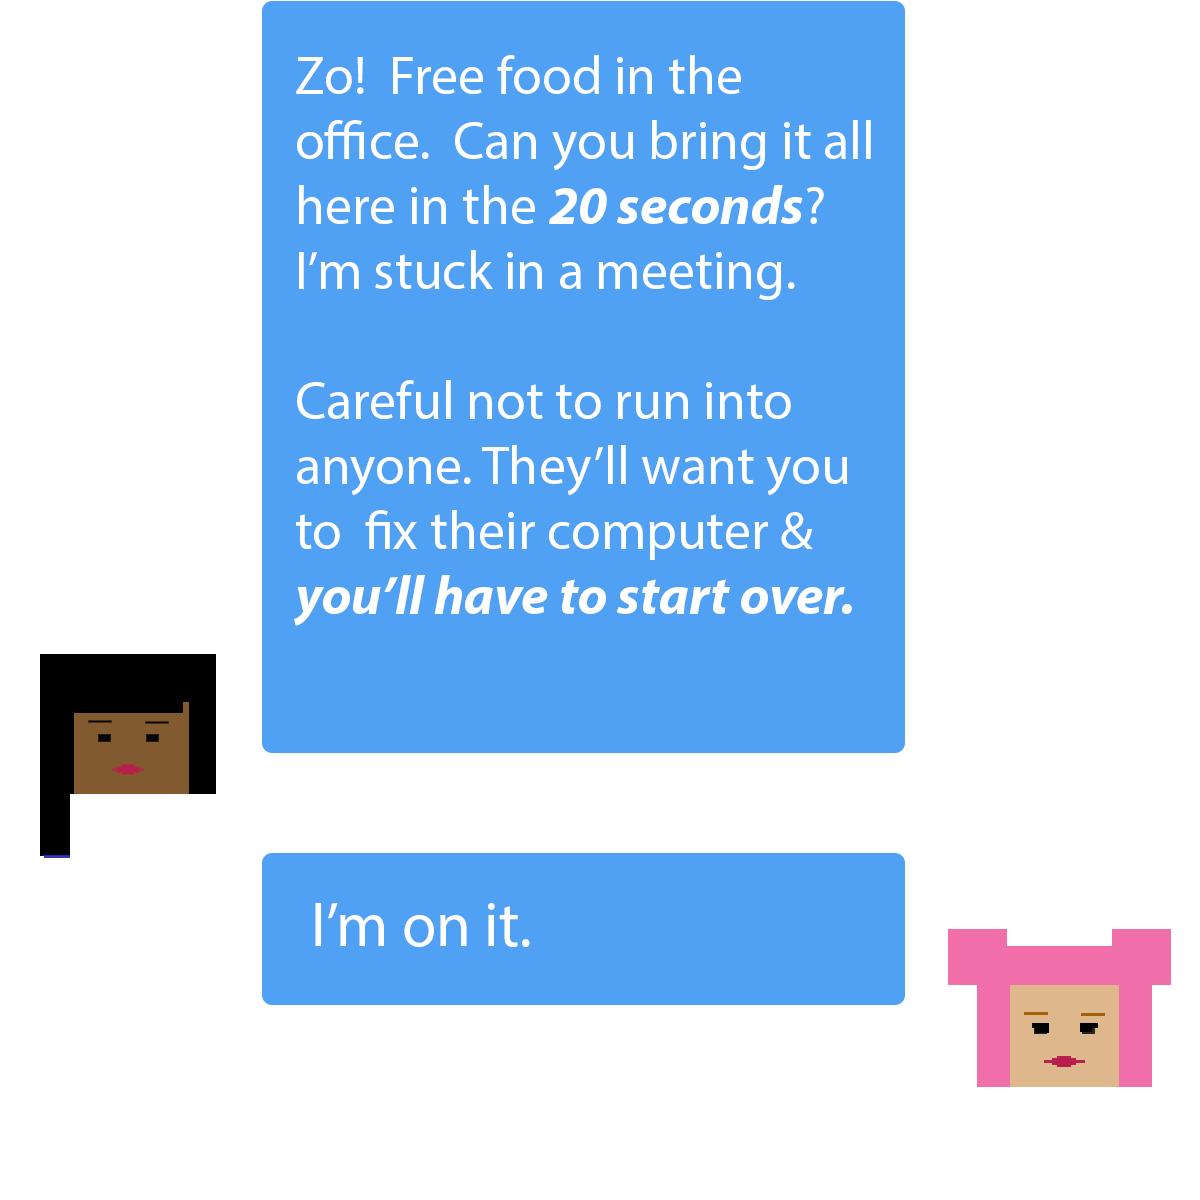
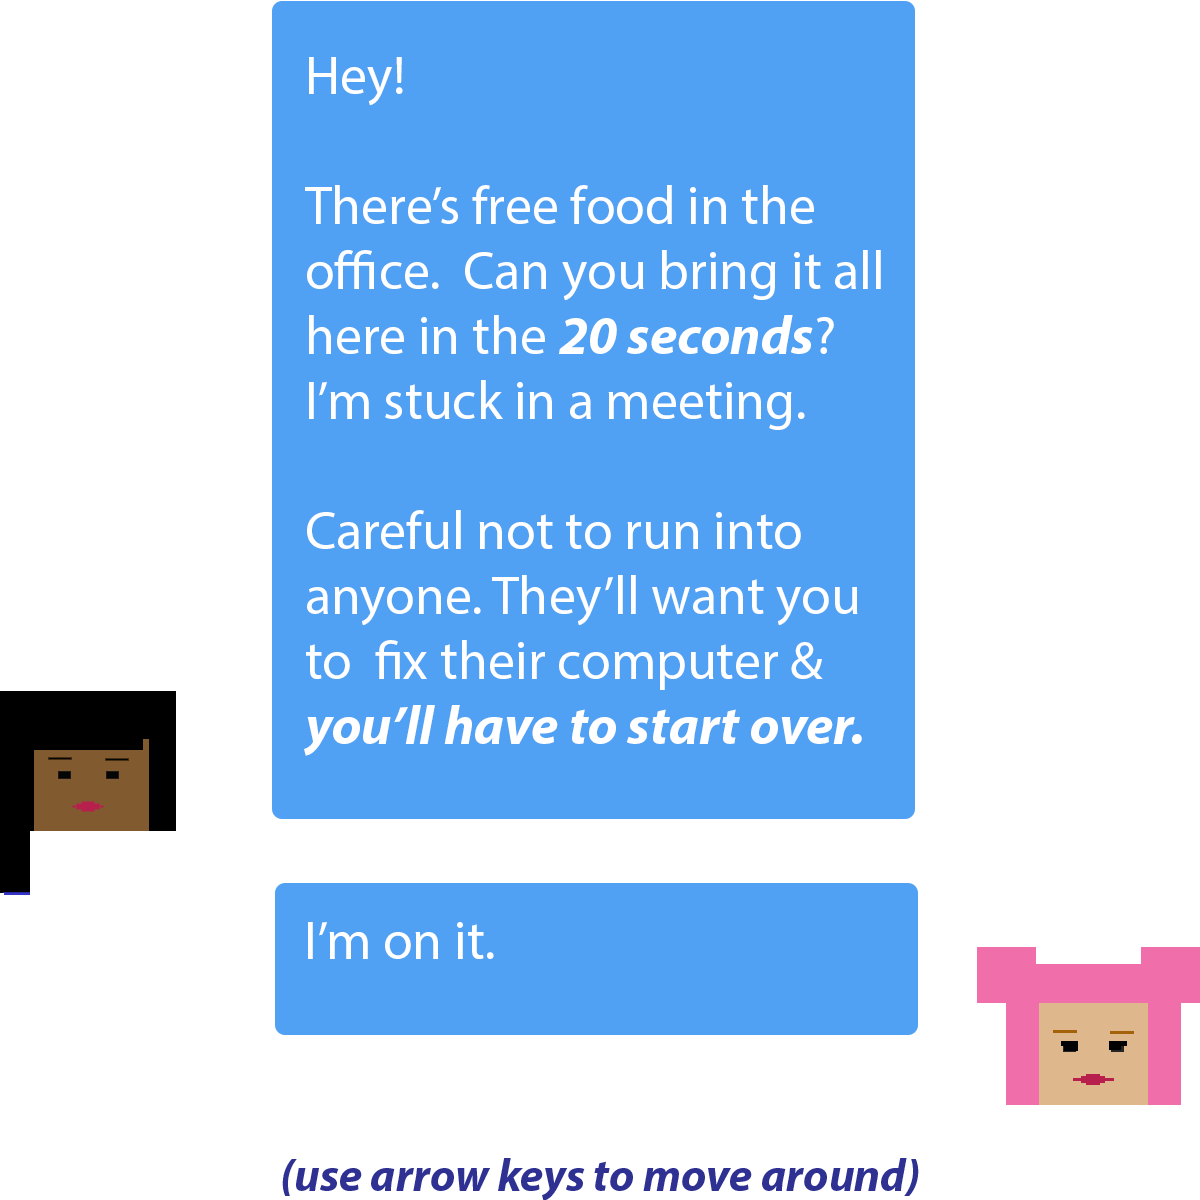
fixed welcome page text

Changed region(s): [[0.2158, 0.0, 1.0, 0.925], [0.2158, 0.9558, 0.7708, 1.0], [0.0, 0.5242, 0.185, 0.7708]]

diff --git a/index.html b/index.html
@@ -15,29 +15,7 @@
     <main>
 
       <div class="welcome-board" id="board-id">
-        <!-- <p id="email-header">
-          <span> To: </span> Zo
-          <br>
-          <span> From: </span> Amira
-          <br>
-          <span> Subject:</span>  Free Foooooodd!!!
-      </p>
-      <p id="email-body">
-          Lots of free food today! Stuck in meeting… can you get it and bring it to me?  pllzzz <3
-          <br>
-          <br>
-          Careful, lots of people to avoid on your way.  They’ll want your help fixing their computer & you’ll have to start all over again. Ahh!
-          <br>
-          <br>
-          PS- Use the arrow keys on your keyboard to navigate the office.
-          Once you bring all the snacks back to me, you complete the level.
-          <br>
-          <br>
-          Oh also,  we only have 20 seconds before they clean up all the food!!  I BELIEVE IN YOU!!! <3 <3
-      </p> -->
-
         <img src="resources/welcome_page.png" alt="Instructions">
-
       </div>
 
         <div class="character">

diff --git a/style.css b/style.css
@@ -40,7 +40,6 @@ h1 {
 
 }
 
-
 main{
  grid-column: 2 / 3;
  grid-row: 2 / 2;
